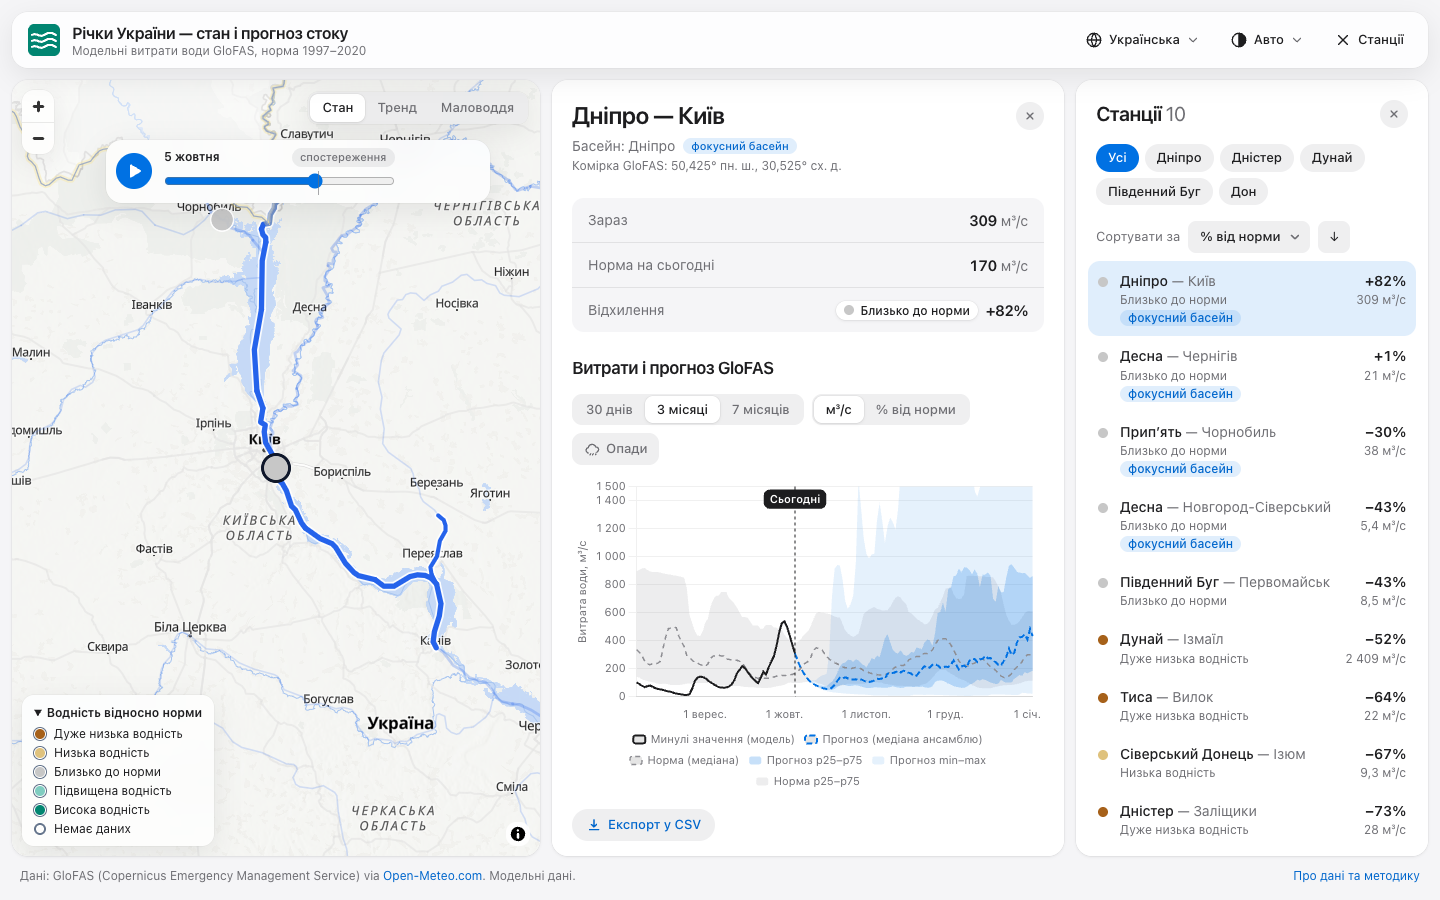
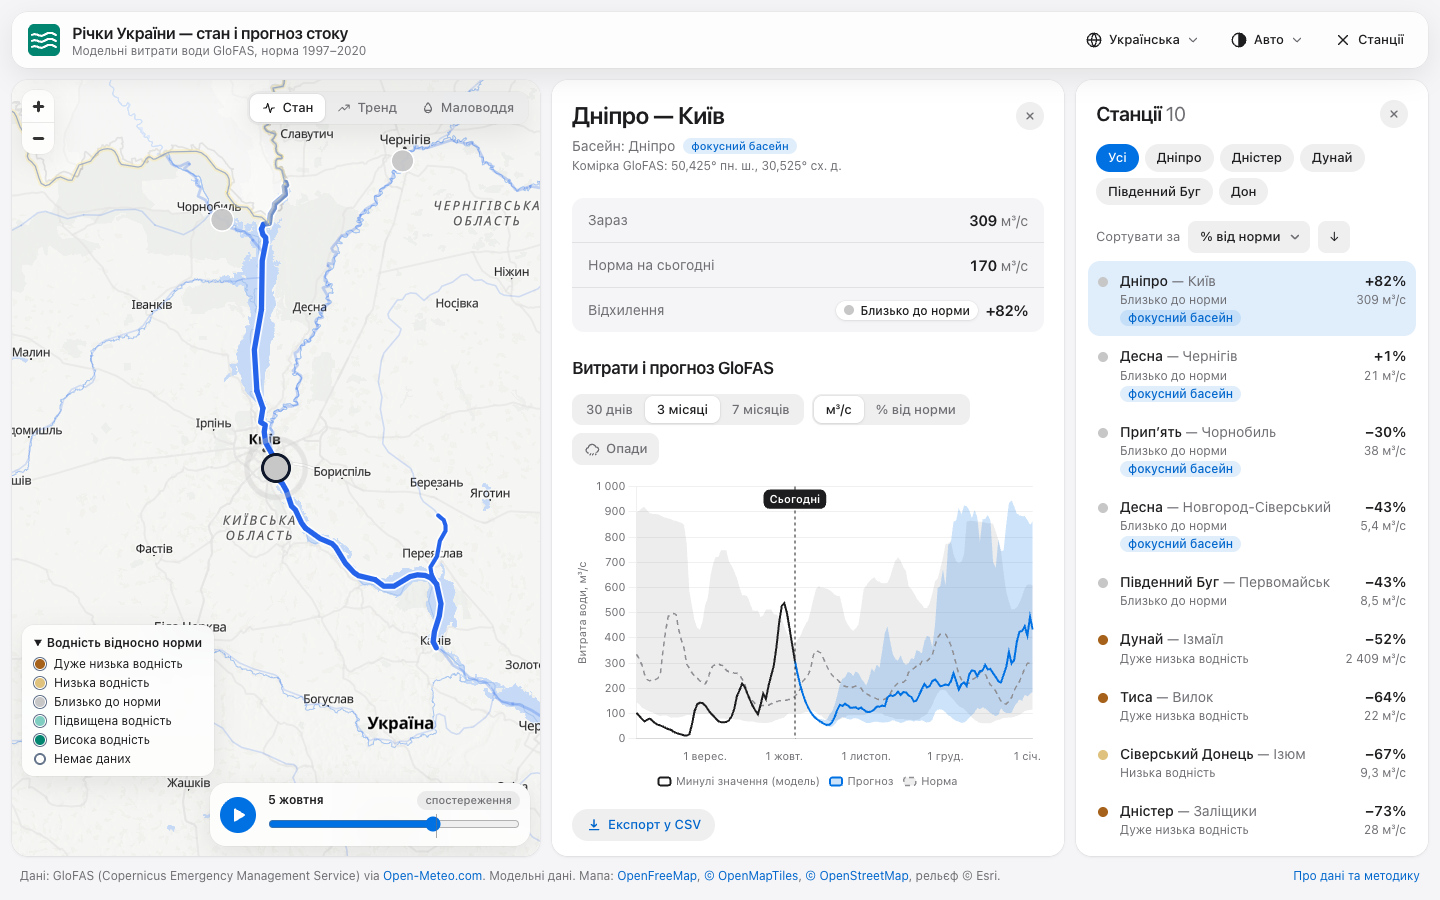
Simplify the discharge chart
Drop the ensemble min–max band, which stretched the value axis and dominated the chart; the spread stays in the CSV export. The forecast median is a solid line, leaving the norm as the only dashed one. The legend shows three entries, each line together with its band, and a click hides both. Refresh the README screenshot.

diff --git a/src/components/panel/DischargeChart.vue b/src/components/panel/DischargeChart.vue
@@ -16,6 +16,7 @@ import {
   type ChartData,
   type ChartDataset,
   type ChartOptions,
+  type LegendItem,
   type TooltipItem,
 } from 'chart.js'
 import annotationPlugin from 'chartjs-plugin-annotation'
@@ -27,7 +28,7 @@ import { Chart } from 'vue-chartjs'
 import { useLocale } from '../../composables/useLocale'
 import { useTheme } from '../../composables/useTheme'
 import type { Locale } from '../../i18n'
-import { type ChartSeries, valueAxisMax } from '../../lib/chartSeries'
+import type { ChartSeries } from '../../lib/chartSeries'
 import { formatDischarge, formatPctOfNorm, formatPrecipitation } from '../../lib/format'
 import type { DailyValues } from '../../types'
 import './chartDefaults'
@@ -59,8 +60,7 @@ const PALETTES = {
     norm: '#8e8e93',
     normBand: 'rgba(142, 142, 147, 0.16)',
     forecast: '#0071e3',
-    forecastOuter: 'rgba(0, 113, 227, 0.1)',
-    forecastInner: 'rgba(0, 113, 227, 0.22)',
+    forecastBand: 'rgba(0, 113, 227, 0.2)',
     past: '#1d1d1f',
     precipitation: 'rgba(48, 176, 199, 0.75)',
     today: '#1d1d1f',
@@ -72,8 +72,7 @@ const PALETTES = {
     norm: '#98989d',
     normBand: 'rgba(152, 152, 157, 0.2)',
     forecast: '#0a84ff',
-    forecastOuter: 'rgba(10, 132, 255, 0.14)',
-    forecastInner: 'rgba(10, 132, 255, 0.3)',
+    forecastBand: 'rgba(10, 132, 255, 0.28)',
     past: '#f5f5f7',
     precipitation: 'rgba(100, 210, 255, 0.7)',
     today: '#f5f5f7',
@@ -92,12 +91,17 @@ const colors = computed(() => (isDark.value ? PALETTES.dark : PALETTES.light))
 /** Typed for the mixed chart: line datasets plus the precipitation bars. */
 type Dataset = ChartDataset<'line' | 'bar', DailyValues>
 
-/** A band is drawn by an invisible lower line and an upper line filled down to it. */
-interface Band {
+/**
+ * A median line with an optional band around it, drawn by an invisible lower line and an
+ * upper line filled down to it. The legend shows one entry per group: the line, filled with
+ * the band colour, and a click hides the line and its band together.
+ */
+interface Group {
   label: string
-  lower: DailyValues
-  upper: DailyValues
-  fill: string
+  data: DailyValues
+  color: string
+  style: Partial<Dataset>
+  band?: { label: string; lower: DailyValues; upper: DailyValues; fill: string }
 }
 
 const formatValue = (value: number | null) =>
@@ -109,57 +113,66 @@ function line(label: string, data: DailyValues, style: Partial<Dataset>): Datase
   return { label, data, pointRadius: 0, pointHoverRadius: 3, borderWidth: 1.5, ...style }
 }
 
+/** The line takes the band fill only as its legend swatch; hover points keep the line colour. */
+function groupLine(group: Group): Dataset {
+  const { color } = group
+  return line(group.label, group.data, {
+    borderColor: color,
+    pointBackgroundColor: color,
+    pointHoverBackgroundColor: color,
+    ...group.style,
+    backgroundColor: group.band?.fill ?? 'transparent',
+  })
+}
+
 const chart = computed(() => {
   const { series, relative } = props
   const COLORS = colors.value
   const labels = t.value.chart
-  const bands: Band[] = []
-  const lines: Dataset[] = []
+  const groups: Group[] = []
 
   // Listed bottom to top; datasets are reversed below because Chart.js draws index 0 last.
   if (series.norm) {
-    bands.push({
-      label: labels.normBand,
-      lower: series.norm.p25,
-      upper: series.norm.p75,
-      fill: COLORS.normBand,
+    groups.push({
+      label: relative ? labels.normRelative : labels.norm,
+      data: series.norm.median,
+      color: COLORS.norm,
+      style: { borderDash: [5, 4] },
+      band: {
+        label: labels.normBand,
+        lower: series.norm.p25,
+        upper: series.norm.p75,
+        fill: COLORS.normBand,
+      },
     })
   }
-  bands.push(
+  groups.push(
     {
-      label: labels.forecastSpread,
-      lower: series.forecast.min,
-      upper: series.forecast.max,
-      fill: COLORS.forecastOuter,
+      label: labels.forecast,
+      data: series.forecast.median,
+      color: COLORS.forecast,
+      style: { borderWidth: 2 },
+      band: {
+        label: labels.forecastIqr,
+        lower: series.forecast.p25,
+        upper: series.forecast.p75,
+        fill: COLORS.forecastBand,
+      },
     },
-    {
-      label: labels.forecastIqr,
-      lower: series.forecast.p25,
-      upper: series.forecast.p75,
-      fill: COLORS.forecastInner,
-    },
-  )
-  if (series.norm) {
-    lines.push(
-      line(relative ? labels.normRelative : labels.normMedian, series.norm.median, {
-        borderColor: COLORS.norm,
-        borderDash: [5, 4],
-      }),
-    )
-  }
-  lines.push(
-    line(labels.forecastMedian, series.forecast.median, {
-      borderColor: COLORS.forecast,
-      borderDash: [6, 3],
-      borderWidth: 2,
-    }),
-    line(labels.past, series.past, { borderColor: COLORS.past, borderWidth: 2 }),
+    { label: labels.past, data: series.past, color: COLORS.past, style: { borderWidth: 2 } },
   )
 
-  // Top-most first. Each band upper line is followed by its lower line and fills to it.
+  // Top-most first: every line, then the bars, then the bands under them all. Each band upper
+  // line is followed by its lower line and fills down to it.
   const datasets: Dataset[] = []
   const lowerIndices = new Set<number>()
-  for (const dataset of [...lines].reverse()) datasets.push(dataset)
+  /** Line dataset index → its band's upper and lower indices, toggled with it from the legend. */
+  const bandIndices = new Map<number, number[]>()
+  const lineIndices = new Map<Group, number>()
+  for (const group of [...groups].reverse()) {
+    lineIndices.set(group, datasets.length)
+    datasets.push(groupLine(group))
+  }
   // Bars go between the lines and the bands: drawn over the translucent bands, under the lines.
   const precipitationIndex = series.precipitation ? datasets.length : null
   if (series.precipitation) {
@@ -173,7 +186,9 @@ const chart = computed(() => {
       categoryPercentage: 1,
     })
   }
-  for (const band of [...bands].reverse()) {
+  for (const group of [...groups].reverse()) {
+    const { band } = group
+    if (!band) continue
     const upperIndex = datasets.length
     datasets.push(
       line(band.label, band.upper, {
@@ -184,10 +199,11 @@ const chart = computed(() => {
       line(band.label, band.lower, { borderWidth: 0, pointHoverRadius: 0 }),
     )
     lowerIndices.add(upperIndex + 1)
+    bandIndices.set(lineIndices.get(group)!, [upperIndex, upperIndex + 1])
   }
 
   const data: ChartData<'line' | 'bar', DailyValues, string> = { labels: series.time, datasets }
-  return { data, lowerIndices, precipitationIndex }
+  return { data, lowerIndices, bandIndices, precipitationIndex }
 })
 
 function tooltipLabel(item: TooltipItem<'line' | 'bar'>): string {
@@ -204,8 +220,20 @@ function tooltipLabel(item: TooltipItem<'line' | 'bar'>): string {
   return `${dataset.label}: ${formatValue(value)}`
 }
 
+/** Hides or shows a legend entry's line together with its band. */
+function toggleGroup(legendChart: ChartJS, item: LegendItem) {
+  const index = item.datasetIndex
+  if (index === undefined) return
+  const visible = !legendChart.isDatasetVisible(index)
+  for (const i of [index, ...(chart.value.bandIndices.get(index) ?? [])]) {
+    legendChart.setDatasetVisibility(i, visible)
+  }
+  legendChart.update()
+}
+
 const options = computed((): ChartOptions<'line' | 'bar'> => {
-  const { lowerIndices, precipitationIndex } = chart.value
+  const { lowerIndices, bandIndices, precipitationIndex } = chart.value
+  const bands = new Set([...bandIndices.values()].flat())
   const COLORS = colors.value
   return {
     color: COLORS.text,
@@ -230,7 +258,6 @@ const options = computed((): ChartOptions<'line' | 'bar'> => {
       },
       y: {
         beginAtZero: true,
-        max: valueAxisMax(props.series) ?? undefined,
         title: {
           display: true,
           text: props.relative ? t.value.chart.pctOfNorm : t.value.chart.dischargeAxis,
@@ -260,13 +287,14 @@ const options = computed((): ChartOptions<'line' | 'bar'> => {
     plugins: {
       legend: {
         position: 'bottom',
+        onClick: (_event, item, legend) => toggleGroup(legend.chart, item),
         labels: {
           color: COLORS.text,
           boxWidth: 12,
           boxHeight: 8,
           useBorderRadius: true,
           borderRadius: 2,
-          filter: (item) => item.datasetIndex === undefined || !lowerIndices.has(item.datasetIndex),
+          filter: (item) => item.datasetIndex === undefined || !bands.has(item.datasetIndex),
         },
       },
       tooltip: {

diff --git a/src/lib/chartSeries.ts b/src/lib/chartSeries.ts
@@ -1,7 +1,7 @@
 import type { PrecipitationSeries } from '../api/weather'
 import type { DailyValues, DischargeSeries, StationNorms } from '../types'
 import { addDays, dayOfYear } from './dates'
-import { nonNull, roundTo } from './stats'
+import { roundTo } from './stats'
 
 export interface ChartWindow {
   /** Today in Kyiv; the past line ends here and the forecast starts here. */
@@ -18,8 +18,6 @@ export interface ChartSeries {
   past: DailyValues
   forecast: {
     median: DailyValues
-    min: DailyValues
-    max: DailyValues
     p25: DailyValues
     p75: DailyValues
   }
@@ -66,8 +64,6 @@ export function buildChartSeries(
     past: pick(series.discharge, isPast),
     forecast: {
       median: pick(ensemble.median, isForecast),
-      min: pick(ensemble.min, isForecast),
-      max: pick(ensemble.max, isForecast),
       p25: pick(ensemble.p25, isForecast),
       p75: pick(ensemble.p75, isForecast),
     },
@@ -84,31 +80,4 @@ export function buildChartSeries(
 function alignByDate(time: string[], sourceTime: string[], values: DailyValues): DailyValues {
   const byDate = new Map(sourceTime.map((date, i) => [date, values[i]]))
   return time.map((date) => byDate.get(date) ?? null)
-}
-
-/** Headroom above the core series before the min–max band is cut at the top edge. */
-const CORE_HEADROOM = 1.5
-
-function niceCeil(value: number): number {
-  const step = 10 ** Math.floor(Math.log10(value)) / 2
-  return Math.ceil(value / step) * step
-}
-
-/**
- * Upper bound for the value axis, or `null` to let it fit everything. Single ensemble members
- * can run to many times the median; letting them set the scale flattens the past line, the
- * forecast median and the norm, so the axis follows those and the min–max band is clipped.
- */
-export function valueAxisMax(series: ChartSeries): number | null {
-  const maxOf = (columns: DailyValues[]) =>
-    Math.max(0, ...columns.flatMap((values) => nonNull(values)))
-  const core = maxOf([
-    series.past,
-    series.forecast.median,
-    series.forecast.p75,
-    series.norm?.p75 ?? [],
-  ])
-  if (core <= 0) return null
-  const limit = core * CORE_HEADROOM
-  return maxOf([series.forecast.max]) > limit ? niceCeil(limit) : null
 }

diff --git a/src/i18n/uk.ts b/src/i18n/uk.ts
@@ -105,7 +105,7 @@ export const uk = {
     precipitationFailed: 'Опади не завантажилися.',
     precipitationRateLimited: 'Опади недоступні: ліміт запитів до Open-Meteo вичерпано.',
     chartNote:
-      'Прогноз — ансамбль GloFAS: медіана, міжквартильний діапазон (p25–p75) і повний розкид (min–max). Норма — 1997–2020 для того самого дня року.',
+      'Прогноз — медіана ансамблю GloFAS, смуга — міжквартильний діапазон (p25–p75). Норма — медіана 1997–2020 для того самого дня року, смуга — p25–p75. Повний розкид ансамблю (min–max) є в CSV.',
   },
   chart: {
     rangeLabel: 'Горизонт прогнозу',
@@ -114,11 +114,10 @@ export const uk = {
     precipitationToggle: 'Опади',
     pctOfNorm: '% від норми',
     normBand: 'Норма p25–p75',
-    forecastSpread: 'Прогноз min–max',
     forecastIqr: 'Прогноз p25–p75',
     normRelative: 'Норма (100%)',
-    normMedian: 'Норма (медіана)',
-    forecastMedian: 'Прогноз (медіана ансамблю)',
+    norm: 'Норма',
+    forecast: 'Прогноз',
     past: 'Минулі значення (модель)',
     dischargeAxis: 'Витрата води, м³/с',
     precipitation: 'Опади',

diff --git a/tests/chartSeries.test.ts b/tests/chartSeries.test.ts
@@ -1,6 +1,6 @@
 import { describe, expect, it } from 'vitest'
 
-import { buildChartSeries, type ChartWindow, valueAxisMax } from '../src/lib/chartSeries'
+import { buildChartSeries, type ChartWindow } from '../src/lib/chartSeries'
 import type { DischargeSeries, NormDay, StationNorms } from '../src/types'
 
 // 1–5 January; today is the 3rd.
@@ -65,22 +65,5 @@ describe('buildChartSeries', () => {
     const result = buildChartSeries(series, null, { ...window, relative: true })
     expect(result.norm).toBeNull()
     expect(result.past).toEqual([null, null, null])
-  })
-})
-
-describe('valueAxisMax', () => {
-  const base = buildChartSeries(series, null, window)
-  const withMax = (max: number) => ({
-    ...base,
-    forecast: { ...base.forecast, max: [null, max, null] },
-  })
-
-  it('fits everything while the ensemble maximum stays within 1.5× the core series', () => {
-    // Core maximum is the past value 300, so the limit is 450.
-    expect(valueAxisMax(withMax(450))).toBeNull()
-  })
-
-  it('caps the axis at 1.5× the core series when the ensemble maximum runs higher', () => {
-    expect(valueAxisMax(withMax(5000))).toBe(450)
   })
 })

diff --git a/src/i18n/en.ts b/src/i18n/en.ts
@@ -104,7 +104,7 @@ export const en: Messages = {
     precipitationRateLimited:
       'Precipitation unavailable: the Open-Meteo request limit is exhausted.',
     chartNote:
-      'Forecast — GloFAS ensemble: median, interquartile range (p25–p75) and full spread (min–max). Norm — 1997–2020 for the same day of the year.',
+      'Forecast — GloFAS ensemble median, band — interquartile range (p25–p75). Norm — 1997–2020 median for the same day of the year, band — p25–p75. The full ensemble spread (min–max) is in the CSV.',
   },
   chart: {
     rangeLabel: 'Forecast horizon',
@@ -113,11 +113,10 @@ export const en: Messages = {
     precipitationToggle: 'Precipitation',
     pctOfNorm: '% of norm',
     normBand: 'Norm p25–p75',
-    forecastSpread: 'Forecast min–max',
     forecastIqr: 'Forecast p25–p75',
     normRelative: 'Norm (100%)',
-    normMedian: 'Norm (median)',
-    forecastMedian: 'Forecast (ensemble median)',
+    norm: 'Norm',
+    forecast: 'Forecast',
     past: 'Past values (model)',
     dischargeAxis: 'Discharge, m³/s',
     precipitation: 'Precipitation',

diff --git a/README.md b/README.md
@@ -17,7 +17,7 @@
 - **Список станцій** з витратою, відхиленням від норми у відсотках і станом водності. Сортування за
   будь-якою колонкою, фільтр за басейном (діє і на карту, і на список).
 - **Картка станції**: поточна витрата, норма на сьогодні, відхилення, бейдж прогнозу та графік — минулі значення,
-  медіана ансамблевого прогнозу зі смугами невизначеності (p25–p75 і min–max), норма і лінія
+  медіана ансамблевого прогнозу зі смугою невизначеності (p25–p75), норма і лінія
   «Сьогодні». Горизонт 30 днів / 3 місяці / 7 місяців, одиниці м³/с або % від норми. Перемикач
   «Опади» додає стовпчики добових опадів у точці станції (60 днів назад і прогноз на 16 днів).
 - **Бейдж прогнозу**: якщо медіана ансамблю в найближчі 30 днів виходить вище p90 норми —
